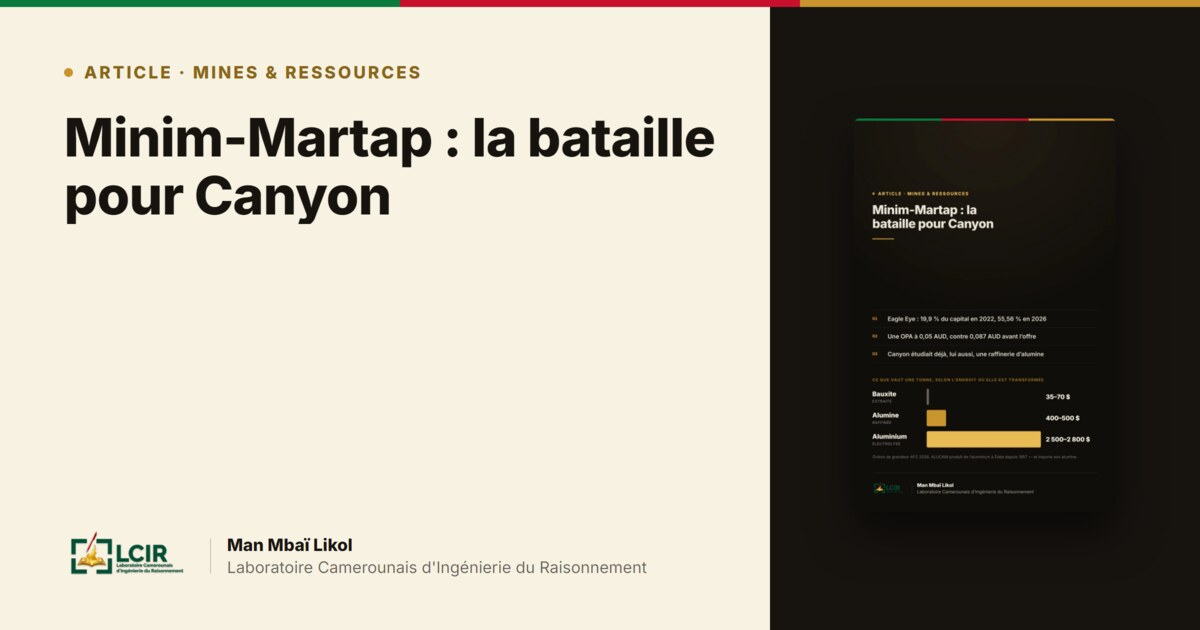
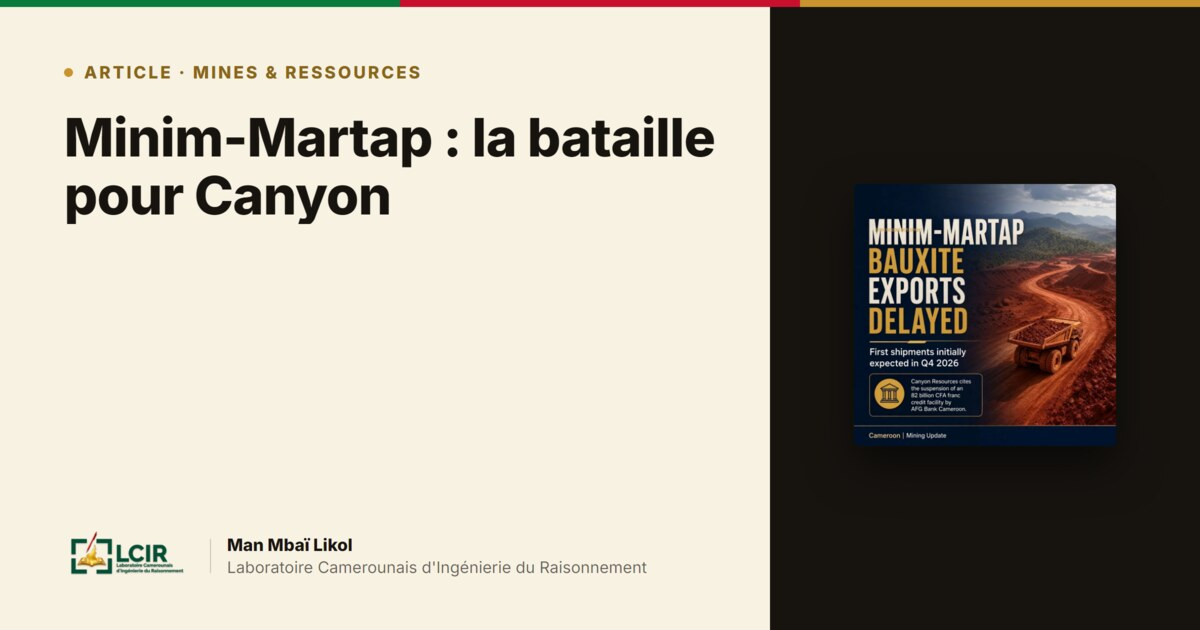
Minim-Martap : image illustrative à la place de la couverture générée
L'article part maintenant du visuel fourni (site minier de Minim-Martap,
camion chargé de bauxite sur la latérite), redimensionné à 1060 px comme
les autres couvertures. L'image est carrée et non portrait ; toutes les
surfaces du site l'affichent en background-size:contain, elle s'intègre
donc sans recadrage — carte héros, dernière parution, vignette de liste
et carte de partage.

L'article ayant désormais une vraie illustration, son entrée est retirée
du générateur de couvertures typographiques : ligne du tableau COVERS et
schéma « minim-martap » de l'objet FIGURES. Le générateur reste en place
pour le rapport de conjoncture et les publications à venir.

Le texte alternatif décrit la photographie et non plus le schéma qu'elle
remplace.

Changed region(s): [[0.7092, 0.2714, 0.9558, 0.7238], [0.7092, 0.181, 0.925, 0.2111], [0.74, 0.754, 0.8633, 0.7841]]

diff --git a/lecture-minim-martap.html b/lecture-minim-martap.html
@@ -17,10 +17,10 @@
 <meta property="og:image" content="https://manmbailikol.github.io/lcir/assets/og-minim-martap.jpg">
 <meta property="og:image:width" content="1200">
 <meta property="og:image:height" content="630">
-<meta property="og:image:alt" content="Minim-Martap : l'échelle de valeur de la bauxite à l'aluminium — LCIR">
+<meta property="og:image:alt" content="Minim-Martap : la bataille pour le contrôle de Canyon Resources — LCIR">
 <meta name="twitter:card" content="summary_large_image">
 <meta name="twitter:image" content="https://manmbailikol.github.io/lcir/assets/og-minim-martap.jpg">
-<meta name="twitter:image:alt" content="Minim-Martap : l'échelle de valeur de la bauxite à l'aluminium — LCIR">
+<meta name="twitter:image:alt" content="Minim-Martap : la bataille pour le contrôle de Canyon Resources — LCIR">
 <link rel="preconnect" href="https://fonts.googleapis.com">
 <link href="https://fonts.googleapis.com/css2?family=Inter:wght@400;500;600;700;800;900&family=Newsreader:ital,opsz,wght@0,6..72,400..600;1,6..72,400..600&display=swap" rel="stylesheet">
 <link rel="stylesheet" href="lecture.css">
@@ -126,7 +126,7 @@
     <div class="byline"><span>Par <strong>Man Mbaï Likol</strong></span><span>·</span><span>Août 2026</span></div>
     <p class="subtitle">Ce que le conflit A2MP–Canyon révèle sur la vraie bataille : qui captera la valeur de la bauxite camerounaise ?</p>
 
-    <img class="cover" src="assets/minim-martap-cover.webp" width="1060" height="1590" alt="Minim-Martap : l'échelle de valeur de la bauxite, 35 à 70 dollars la tonne extraite, 400 à 500 dollars en alumine, 2 500 à 2 800 dollars en aluminium">
+    <img class="cover" src="assets/minim-martap-cover.webp" width="1060" height="1060" alt="Camion minier chargé de bauxite sur une piste de latérite rouge à Minim-Martap : les premières expéditions, attendues au quatrième trimestre 2026, sont reportées après la suspension d’une facilité de crédit de 82 milliards de FCFA par AFG Bank Cameroun">
 
     <p class="lede">Une tonne de bauxite dans le sous-sol est une ressource. Une tonne extraite est une marchandise. Une tonne transformée en alumine, puis en aluminium, devient une chaîne de valeur.</p>
 

diff --git a/tools/cover-card.html b/tools/cover-card.html
@@ -147,25 +147,7 @@
       +   '<div class="r"><span class="k">Déficit budgétaire / PIB</span><span class="a">2,0 %</span><span class="s">→</span><span class="b">1,84 %</span></div>'
       +   '<div class="r"><span class="k">Déficit courant / PIB</span><span class="a">3,9 %</span><span class="s">→</span><span class="b">3,59 %</span></div>'
       + '</div>'
-      + '<div class="fig-note">Stocks et soldes nominaux inchangés. Rapport de simulation — ni publication de l’INS, ni estimation officielle.</div>',
-
-    // Enquête Minim-Martap — l'échelle de valeur qui explique la bataille de contrôle.
-    'minim-martap': ''
-      + '<div class="fig-cap">CE QUE VAUT UNE TONNE, SELON L’ENDROIT OÙ ELLE EST TRANSFORMÉE</div>'
-      // Largeurs à l'échelle du point médian de chaque fourchette,
-      // rapporté à 2 650 USD : 52,5 → 2 %, 450 → 17 %, 2 650 → 100 %.
-      + '<div class="ladder">'
-      +   '<div class="step"><div class="lab">Bauxite<small>EXTRAITE</small></div>'
-      +     '<div class="bar" style="width:2%;background:#6f665a"></div>'
-      +     '<div class="val">35–70 $</div></div>'
-      +   '<div class="step"><div class="lab">Alumine<small>RAFFINÉE</small></div>'
-      +     '<div class="bar" style="width:17%;background:#c9932e"></div>'
-      +     '<div class="val">400–500 $</div></div>'
-      +   '<div class="step"><div class="lab">Aluminium<small>ÉLECTROLYSÉ</small></div>'
-      +     '<div class="bar" style="width:100%;background:#e7bb52"></div>'
-      +     '<div class="val">2 500–2 800 $</div></div>'
-      + '</div>'
-      + '<div class="fig-note">Ordres de grandeur AFC 2026. ALUCAM produit de l’aluminium à Édéa depuis 1957 — et importe son alumine.</div>'
+      + '<div class="fig-note">Stocks et soldes nominaux inchangés. Rapport de simulation — ni publication de l’INS, ni estimation officielle.</div>'
   };
 
   var q = new URLSearchParams(location.search);
